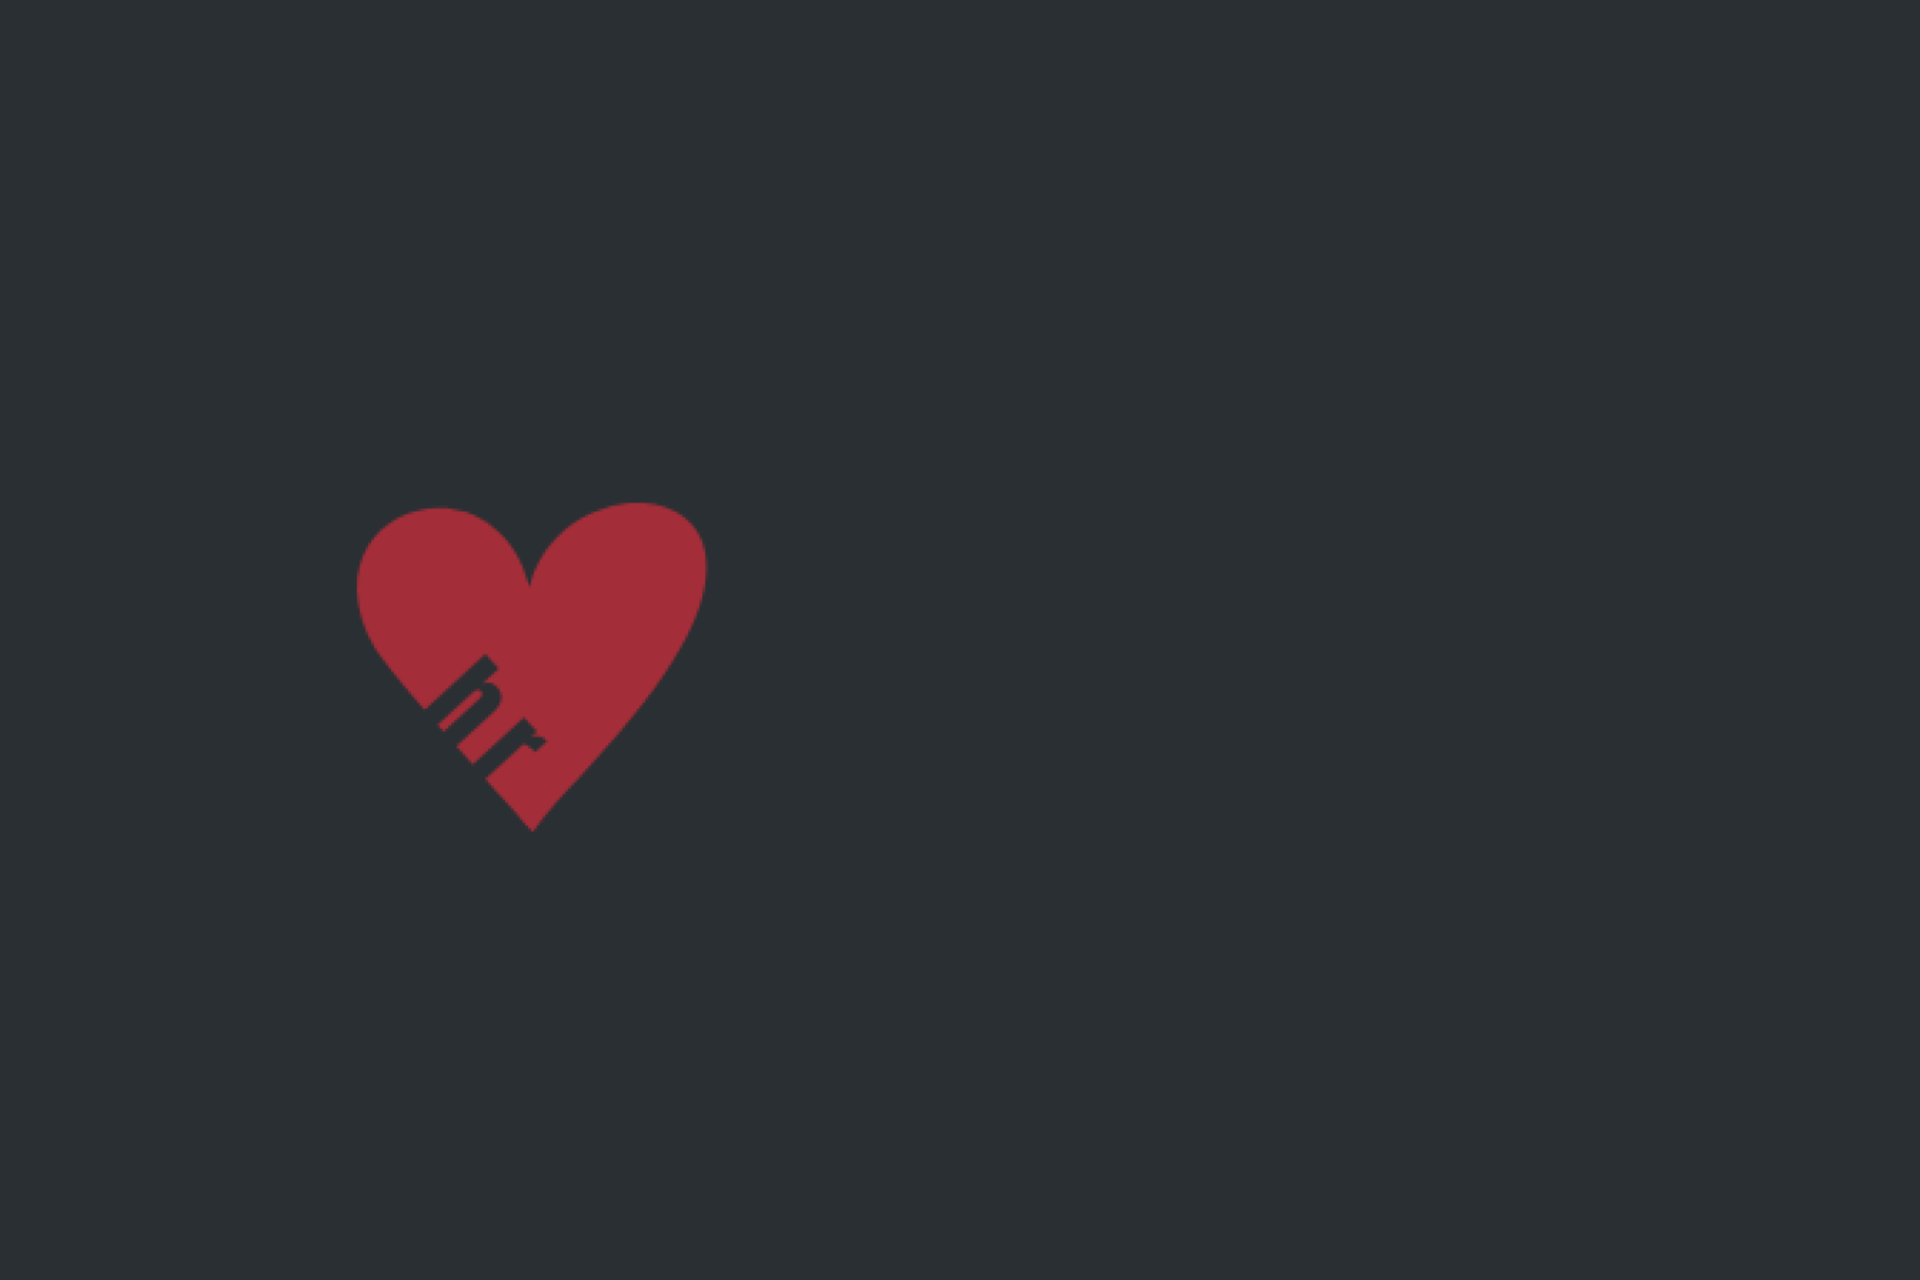
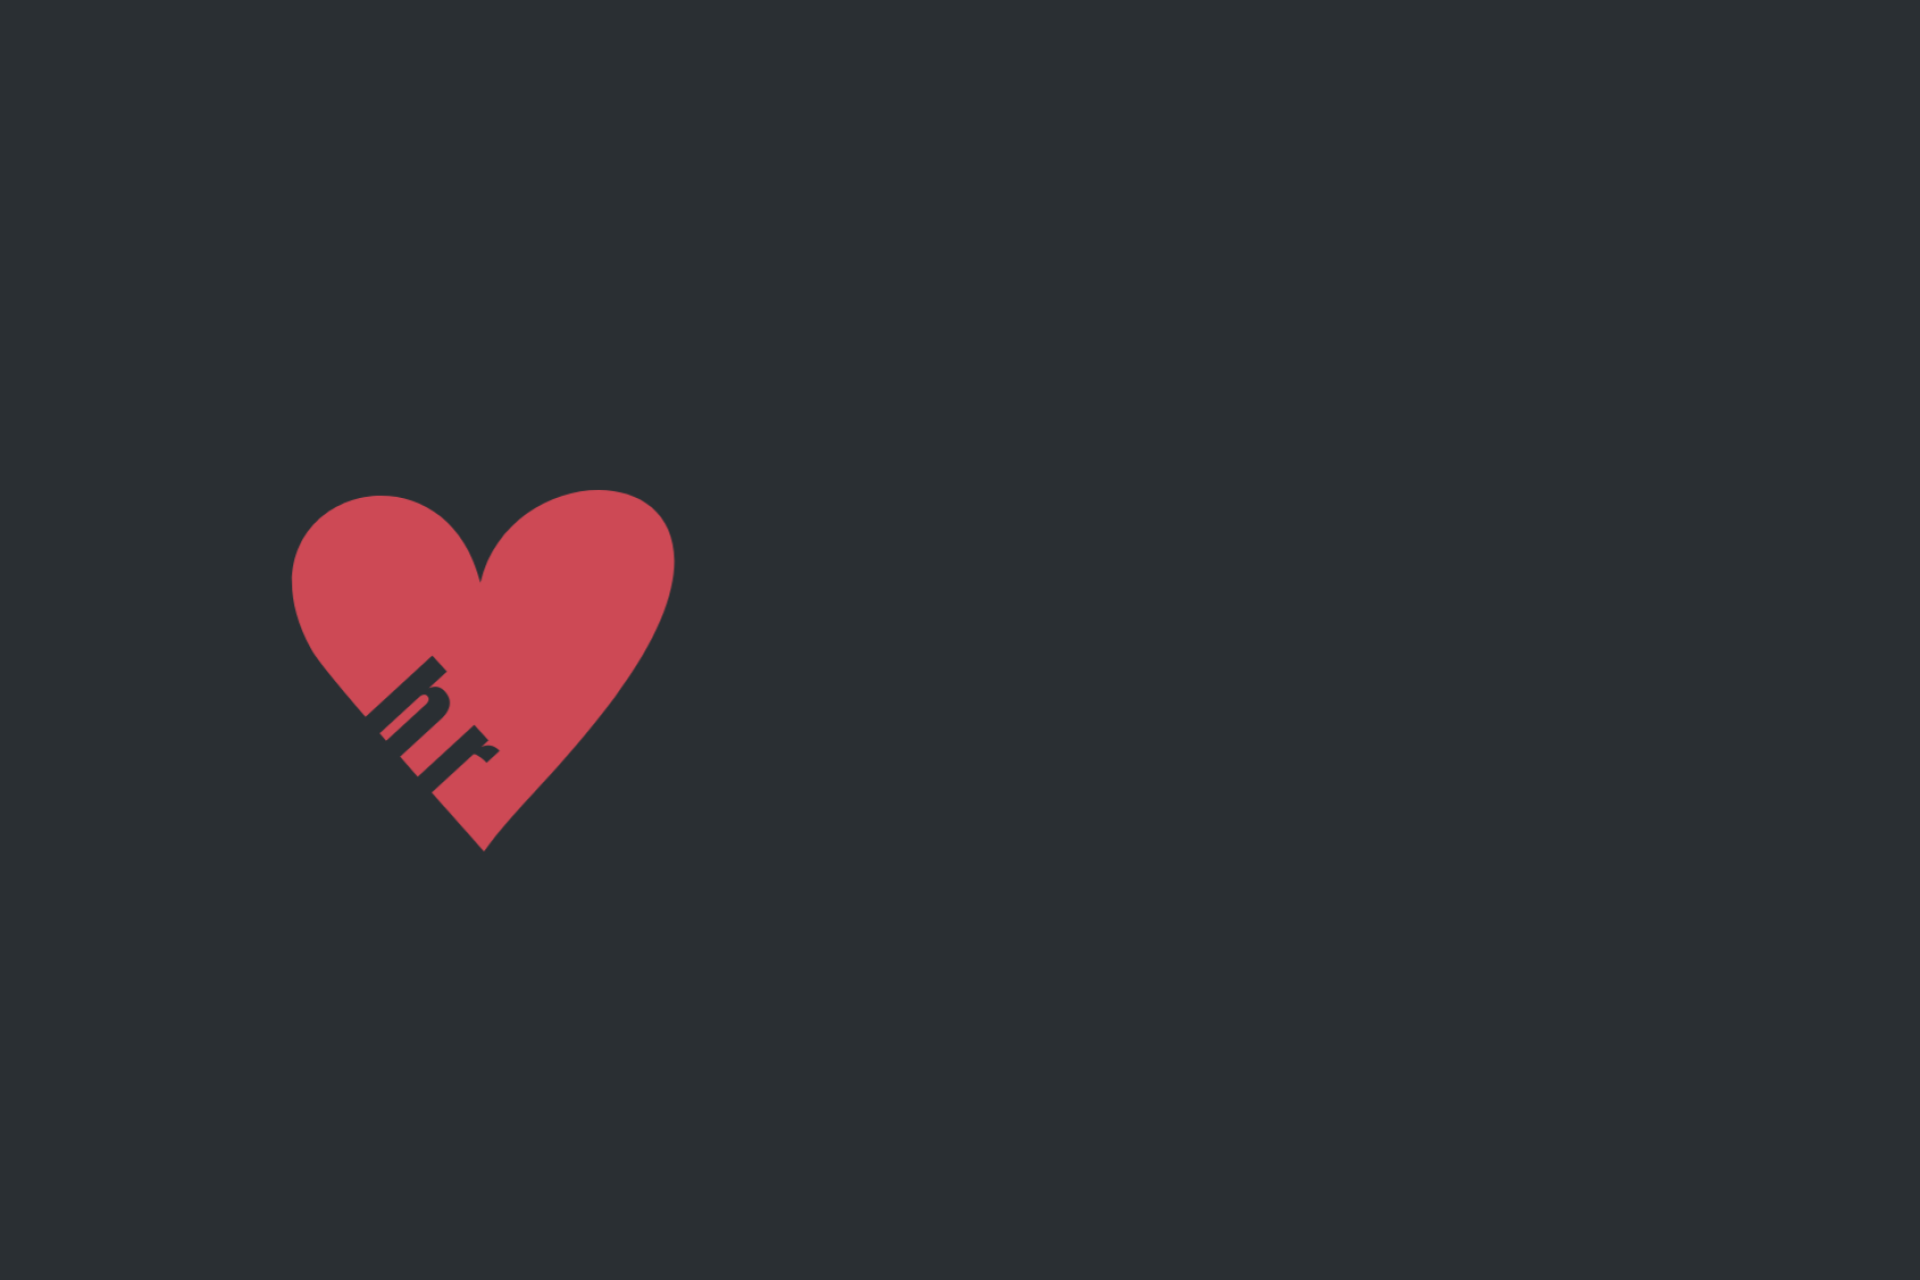
updated colors in dark mode.

Changed region(s): [[0.125, 0.375, 0.375, 0.6562]]

diff --git a/content/about.md b/content/about.md
@@ -9,7 +9,7 @@ date: 2021-08-01T11:11:11+01:00
 <!-- Image type 2: "inline" -->
 {{< figure src="/images/Headshot-small.jpg"  >}}
 
-Hi! I’m AnnE Diemer — and yes, my doctor parents made my initials match the automated external defibrillator. But 8+ years into my career in Human Resources, I’ve learned that sometimes an external source of energy might be just what you need to get things running more smoothly. And that’s when you reach out to me!
+Hi! I’m AnnE Diemer (she/her) — and yes, my doctor parents made my initials match the automated external defibrillator. But 8+ years into my career in Human Resources, I’ve learned that sometimes an external source of energy might be just what you need to get things running more smoothly. And that’s when you reach out to me!
 
 My focus is always on doing people-centered work — prioritizing the HUMAN in HR. I approach HR through a lens that holds contradictions: How do we build great workplaces while also questioning capitalist systems? How can we work efficiently and move quickly while also prioritizing ourselves and each other as humans? There are no easy answers to these questions, but I’m going to keep asking them… because that’s the future of work.
 
